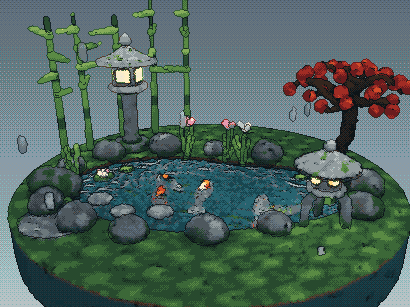
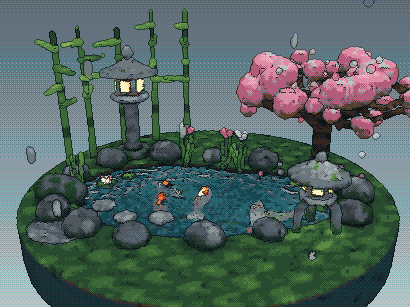
Koi pond: a cherry tree in full bloom, and lanterns whose light stays inside the stone
The lanterns' lights sat inside solid stone and shone through it, warming the
caps and rims. Their light boxes are now hollow with lit paper screens in the
openings, and the lights cast baked shadows, so light gets out only through
the openings. The maple is a cherry in bloom with falling petals, and the
scene's daylight is overcast.

Claude-Session: https://claude.ai/code/session_018HstUmFwNHho8RRYJaL73N

diff --git a/src/blobscape/diorama/scenes/koi.ts b/src/blobscape/diorama/scenes/koi.ts
@@ -2,7 +2,7 @@ import type { SceneDoc } from '../../../splat-engine/sceneDoc.ts'
 
 /**
  * A koi pond in a moss garden on a rainy day, with a tall stone lantern and a low snow-viewing lantern lit beside it, a
- * red maple, bamboo, irises, lily pads and stepping stones. The pond is real water (`water`): every raindrop that
+ * cherry tree in full bloom, bamboo, irises, lily pads and stepping stones. The pond is real water (`water`): every raindrop that
  * lands on it leaves its ring, the rings cross and bounce off the banks and the stones, and each koi leaves a wake
  * where its back breaks the surface.
  * Data only (it would read the same as a .json file): see docs/scene-descriptions.md.
@@ -10,17 +10,17 @@ import type { SceneDoc } from '../../../splat-engine/sceneDoc.ts'
 export const KOI: SceneDoc = {
   name: 'Koi pond in the rain',
   loop: 12,
-  light: { from: [0.25, 1, 0.4], ambient: 0.72, shadow: 0.35 },
+  light: { from: [0.25, 1, 0.4], ambient: 0.72, shadow: 0.35, ramp: 0.2 },
   palette: [
     '#0d1418', '#16242a', '#24363c', '#1a3022', '#284a2e', '#3c6838', '#5a8a44', '#86ac5a',
     '#343c42', '#4e585e', '#6c787c', '#929c9e', '#bcc4c2', '#103038', '#184650', '#286470',
-    '#4a8a94', '#84b8ba', '#34261e', '#58402e', '#6a1c1e', '#a22c24', '#d24c2a', '#ec8038',
-    '#f6a23c', '#ffd27a', '#fff0c4', '#f0e8d6', '#e89aae', '#5a6c7e', '#8a9ca8', '#b6c2c6',
+    '#4a8a94', '#84b8ba', '#34261e', '#58402e', '#d24c2a', '#ec8038', '#b05c7a', '#e08ca6',
+    '#f6c2d0', '#f6a23c', '#ffd27a', '#fff0c4', '#f0e8d6', '#5a6c7e', '#8a9ca8', '#b6c2c6',
   ],
   sky: ['#5a6c7e', '#b6c2c6'],
   look: { dither: 0.5, glow: 1.2, outline: true, edges: true },
-  camera: { target: [0, 0.3, 0.15], distance: 3.45, azimuth: 14, elevation: 21, swing: 8 },
-  air: { haze: { color: '#8a9ca8', from: 1.5, to: 10 }, specks: [{ kind: 'rain', count: 18, size: 0.004, from: [-1.45, -0.3, -1.15], to: [1.45, 2.6, 1.3], colors: ['#b6c2c6', '#8a9ca8'], land: true, wind: [0.1, 0.04] }] },
+  camera: { target: [0, 0.36, 0.1], distance: 3.65, azimuth: 14, elevation: 21, swing: 8 },
+  air: { haze: { color: '#8a9ca8', from: 1.5, to: 10 }, specks: [{ kind: 'rain', count: 18, size: 0.004, from: [-1.45, -0.3, -1.15], to: [1.45, 2.6, 1.3], colors: ['#b6c2c6', '#8a9ca8'], land: true, wind: [0.1, 0.04] }, { kind: 'leaves', count: 14, size: 0.012, from: [0.2, 0, -1.3], to: [1.5, 1.2, 0.2], colors: ['#f6c2d0', '#e08ca6', '#f0e8d6'], land: true, wind: [-0.25, 0.1] }] },
   water: {
     level: -0.045, from: [-1.3, -0.72], to: [1.3, 1.1], color: '#184650', sky: ['#8a9ca8', '#b6c2c6'], clear: 0.25, speed: 0.3, damping: 0.6, cell: 0.018, ripple: 6, deep: 0.05, splash: { r: 0.07, depth: 0.02 },
     bodies: [
@@ -37,8 +37,8 @@ export const KOI: SceneDoc = {
     ],
   },
   bones: [
-    { name: 'maple', at: [1.12, 0, -0.72] },
-    { name: 'crown', at: [0.95, 0.9, -0.55], parent: 'maple' },
+    { name: 'cherry', at: [0.98, 0, -0.8] },
+    { name: 'crown', at: [0.9, 0.85, -0.6], parent: 'cherry' },
     { name: 'bamboo0', at: [-1.36, 0, -0.42] },
     { name: 'bamboo1', at: [-1.2, 0, -0.86] },
     { name: 'bamboo2', at: [-0.9, 0, -1.1] },
@@ -90,25 +90,41 @@ export const KOI: SceneDoc = {
     { shape: { kind: 'sweep', path: [[0.912, 0.27, 0.532], [0.835, 0.2, 0.596], [0.812, -0.12, 0.616]], r: 0.03, rTo: 0.026 }, paint: { kind: 'speckle', size: 0.035, colors: ['#6c787c', '#6c787c', '#4e585e'] }, grime: '#284a2e', noShadow: true },
     { shape: { kind: 'sweep', path: [[0.941, 0.27, 0.451], [0.924, 0.2, 0.352], [0.919, -0.12, 0.323]], r: 0.03, rTo: 0.026 }, paint: { kind: 'speckle', size: 0.035, colors: ['#6c787c', '#6c787c', '#4e585e'] }, grime: '#284a2e', noShadow: true },
     { shape: { kind: 'cylinder', at: [0.95, 0.25, 0.5], height: 0.035, r: 0.13 }, paint: { kind: 'speckle', size: 0.035, colors: ['#929c9e', '#929c9e', '#6c787c'] } },
-    { shape: { kind: 'cylinder', at: [0.95, 0.285, 0.5], height: 0.13, r: 0.085 }, paint: { kind: 'speckle', size: 0.035, colors: ['#6c787c', '#6c787c', '#4e585e'] } },
-    { shape: { kind: 'ball', at: [0.994, 0.35, 0.563], r: [0.034, 0.042, 0.034] }, paint: '#ffd27a', glow: true, noShadow: true },
-    { shape: { kind: 'ball', at: [0.887, 0.35, 0.544], r: [0.034, 0.042, 0.034] }, paint: '#ffd27a', glow: true, noShadow: true },
-    { shape: { kind: 'ball', at: [0.906, 0.35, 0.437], r: [0.034, 0.042, 0.034] }, paint: '#ffd27a', glow: true, noShadow: true },
-    { shape: { kind: 'ball', at: [1.013, 0.35, 0.456], r: [0.034, 0.042, 0.034] }, paint: '#ffd27a', glow: true, noShadow: true },
+    { shape: { kind: 'cut', shape: { kind: 'cylinder', at: [0.95, 0.285, 0.5], height: 0.13, r: 0.09 }, hole: { kind: 'join', shapes: [{ kind: 'cylinder', at: [0.95, 0.305, 0.5], height: 0.08, r: 0.058 }, { kind: 'box', at: [0.95, 0.35, 0.5], half: [0.2, 0.036, 0.03] }, { kind: 'box', at: [0.95, 0.35, 0.5], half: [0.03, 0.036, 0.2] }] } }, paint: { kind: 'speckle', size: 0.035, colors: ['#6c787c', '#6c787c', '#4e585e'] } },
+    { shape: { kind: 'box', at: [1.033, 0.35, 0.5], half: [0.012, 0.036, 0.03] }, paint: '#ffd27a', glow: true, noShadow: true },
+    { shape: { kind: 'box', at: [0.95, 0.35, 0.583], half: [0.03, 0.036, 0.012] }, paint: '#ffd27a', glow: true, noShadow: true },
+    { shape: { kind: 'box', at: [0.867, 0.35, 0.5], half: [0.012, 0.036, 0.03] }, paint: '#ffd27a', glow: true, noShadow: true },
+    { shape: { kind: 'box', at: [0.95, 0.35, 0.417], half: [0.03, 0.036, 0.012] }, paint: '#ffd27a', glow: true, noShadow: true },
     { shape: { kind: 'lathe', at: [0.95, 0.415, 0.5], profile: [[0.21, 0], [0.22, 0.018], [0.16, 0.05], [0.09, 0.09], [0.04, 0.12], [0.012, 0.128]] }, paint: { kind: 'faces', top: { kind: 'patches', size: 0.08, colors: ['#929c9e', '#6c787c', '#929c9e', '#3c6838'] }, side: '#6c787c', under: '#343c42' } },
     { shape: { kind: 'sphere', at: [0.95, 0.57, 0.5], r: 0.035 }, paint: '#929c9e', noShadow: true },
     { shape: { kind: 'cylinder', at: [-0.98, 0, -0.6], height: 0.078, r: 0.195, rTop: 0.169 }, paint: { kind: 'speckle', size: 0.035, colors: ['#6c787c', '#6c787c', '#4e585e'] }, grime: '#284a2e' },
     { shape: { kind: 'lathe', at: [-0.98, 0.078, -0.6], profile: [[0.091, 0], [0.065, 0.065], [0.059, 0.26], [0.065, 0.468], [0.098, 0.52]] }, paint: { kind: 'speckle', size: 0.035, colors: ['#6c787c', '#6c787c', '#4e585e'] }, grime: '#284a2e' },
     { shape: { kind: 'lathe', at: [-0.98, 0.598, -0.6], profile: [[0.091, 0], [0.182, 0.039], [0.182, 0.078]] }, paint: { kind: 'speckle', size: 0.035, colors: ['#929c9e', '#929c9e', '#6c787c'] } },
-    { shape: { kind: 'box', at: [-0.98, 0.767, -0.6], half: [0.104, 0.091, 0.104], round: 0.012 }, paint: { kind: 'speckle', size: 0.035, colors: ['#6c787c', '#6c787c', '#4e585e'] } },
-    { shape: { kind: 'box', at: [-0.873, 0.767, -0.6], half: [0.012, 0.057, 0.062] }, paint: '#ffd27a', glow: true, noShadow: true },
-    { shape: { kind: 'box', at: [-1.087, 0.767, -0.6], half: [0.012, 0.057, 0.062] }, paint: '#ffd27a', glow: true, noShadow: true },
-    { shape: { kind: 'box', at: [-0.98, 0.767, -0.493], half: [0.062, 0.057, 0.012] }, paint: '#ffd27a', glow: true, noShadow: true },
-    { shape: { kind: 'box', at: [-0.98, 0.767, -0.707], half: [0.062, 0.057, 0.012] }, paint: '#ffd27a', glow: true, noShadow: true },
+    { shape: { kind: 'cut', shape: { kind: 'box', at: [-0.98, 0.767, -0.6], half: [0.111, 0.091, 0.111], round: 0.012 }, hole: { kind: 'join', shapes: [{ kind: 'box', at: [-0.98, 0.767, -0.6], half: [0.075, 0.065, 0.075] }, { kind: 'box', at: [-0.98, 0.767, -0.6], half: [0.3, 0.052, 0.052] }, { kind: 'box', at: [-0.98, 0.767, -0.6], half: [0.052, 0.052, 0.3] }] } }, paint: { kind: 'speckle', size: 0.035, colors: ['#6c787c', '#6c787c', '#4e585e'] } },
+    { shape: { kind: 'box', at: [-0.867, 0.767, -0.6], half: [0.012, 0.052, 0.052] }, paint: '#ffd27a', glow: true, noShadow: true },
+    { shape: { kind: 'box', at: [-1.093, 0.767, -0.6], half: [0.012, 0.052, 0.052] }, paint: '#ffd27a', glow: true, noShadow: true },
+    { shape: { kind: 'box', at: [-0.98, 0.767, -0.487], half: [0.052, 0.052, 0.012] }, paint: '#ffd27a', glow: true, noShadow: true },
+    { shape: { kind: 'box', at: [-0.98, 0.767, -0.713], half: [0.052, 0.052, 0.012] }, paint: '#ffd27a', glow: true, noShadow: true },
     { shape: { kind: 'lathe', at: [-0.98, 0.858, -0.6], profile: [[0.273, 0.026], [0.286, 0.046], [0.195, 0.078], [0.104, 0.13], [0.039, 0.176], [0.016, 0.182]] }, paint: { kind: 'faces', top: { kind: 'patches', size: 0.08, colors: ['#929c9e', '#6c787c', '#929c9e', '#3c6838'] }, side: '#6c787c', under: '#343c42' } },
     { shape: { kind: 'lathe', at: [-0.98, 1.04, -0.6], profile: [[0.016, 0], [0.052, 0.039], [0.039, 0.078], [0.016, 0.111]] }, paint: '#929c9e', noShadow: true },
-    { shape: { kind: 'tree', at: [1.12, 0, -0.72], height: 0.5, crown: [0.6, 0.26, 0.5], r: 0.055, points: 150, leaves: 0.052, only: 'limbs', seed: 5 }, paint: '#34261e', bone: 'maple' },
-    { shape: { kind: 'tree', at: [1.12, 0, -0.72], height: 0.5, crown: [0.6, 0.26, 0.5], r: 0.055, points: 150, leaves: 0.052, only: 'leaves', seed: 5 }, paint: { kind: 'speckle', size: 0.04, colors: ['#a22c24', '#d24c2a', '#6a1c1e', '#ec8038'] }, bone: 'crown', noShadow: true },
+    { shape: { kind: 'tree', at: [0.98, 0, -0.8], height: 0.44, crown: [0.92, 0.34, 0.7], r: 0.074, points: 400, leaves: 0.07, seed: 11, only: 'limbs' }, paint: { kind: 'bands', axis: 'y', size: 0.045, colors: ['#34261e', '#34261e', '#58402e'] }, bone: 'cherry' },
+    { shape: { kind: 'tree', at: [0.98, 0, -0.8], height: 0.44, crown: [0.92, 0.34, 0.7], r: 0.074, points: 400, leaves: 0.07, seed: 11, only: 'leaves' }, paint: { kind: 'faces', top: { kind: 'speckle', size: 0.035, colors: ['#f6c2d0', '#f6c2d0', '#f0e8d6', '#e08ca6'] }, side: { kind: 'speckle', size: 0.035, colors: ['#e08ca6', '#f6c2d0', '#e08ca6', '#b05c7a'] }, under: '#b05c7a' }, bone: 'crown', noShadow: true },
+    { shape: { kind: 'join', blend: 'smooth', by: 0.03, shapes: [{ kind: 'sphere', at: [1.042, 0.886, -0.221], r: 0.132 }, { kind: 'sphere', at: [0.576, 0.987, -0.523], r: 0.108 }, { kind: 'sphere', at: [1.369, 0.952, -0.736], r: 0.133 }, { kind: 'sphere', at: [0.382, 0.947, -0.929], r: 0.14 }, { kind: 'sphere', at: [1.239, 0.824, -0.457], r: 0.103 }, { kind: 'sphere', at: [0.498, 0.783, -1.059], r: 0.113 }, { kind: 'sphere', at: [0.512, 0.899, -0.393], r: 0.14 }, { kind: 'sphere', at: [1.202, 1.026, -0.954], r: 0.114 }, { kind: 'sphere', at: [0.948, 0.772, -0.435], r: 0.109 }, { kind: 'sphere', at: [1.259, 0.915, -0.355], r: 0.085 }, { kind: 'sphere', at: [0.586, 0.952, -0.641], r: 0.114 }, { kind: 'sphere', at: [1.397, 0.761, -1.05], r: 0.124 }, { kind: 'sphere', at: [1.241, 0.896, -0.319], r: 0.129 }, { kind: 'sphere', at: [1.444, 0.965, -0.681], r: 0.136 }, { kind: 'sphere', at: [0.646, 0.766, -0.203], r: 0.11 }, { kind: 'sphere', at: [1.329, 0.878, -0.598], r: 0.14 }, { kind: 'sphere', at: [0.404, 0.79, -0.637], r: 0.114 }, { kind: 'sphere', at: [0.23, 0.756, -0.963], r: 0.11 }, { kind: 'sphere', at: [0.612, 0.805, -0.524], r: 0.122 }, { kind: 'sphere', at: [0.609, 0.985, -0.39], r: 0.109 }, { kind: 'sphere', at: [1.335, 0.946, -0.373], r: 0.104 }, { kind: 'sphere', at: [1.162, 0.853, -0.366], r: 0.134 }, { kind: 'sphere', at: [1.363, 0.911, -0.818], r: 0.087 }, { kind: 'sphere', at: [0.442, 0.717, -1.019], r: 0.14 }, { kind: 'sphere', at: [1.276, 1.006, -0.922], r: 0.112 }, { kind: 'sphere', at: [0.33, 0.811, -1.13], r: 0.134 }, { kind: 'sphere', at: [0.32, 0.81, -0.407], r: 0.127 }, { kind: 'sphere', at: [0.751, 0.883, -1.25], r: 0.086 }, { kind: 'sphere', at: [0.522, 0.904, -0.971], r: 0.132 }, { kind: 'sphere', at: [1.289, 0.97, -0.528], r: 0.087 }, { kind: 'sphere', at: [0.396, 0.933, -0.785], r: 0.138 }, { kind: 'sphere', at: [0.732, 0.754, -0.422], r: 0.09 }, { kind: 'sphere', at: [1.803, 0.73, -0.66], r: 0.139 }, { kind: 'sphere', at: [1.218, 1.022, -0.94], r: 0.138 }, { kind: 'sphere', at: [0.7, 0.991, -1.249], r: 0.086 }, { kind: 'sphere', at: [0.722, 0.812, -1.175], r: 0.108 }, { kind: 'sphere', at: [1.419, 0.906, -0.501], r: 0.096 }, { kind: 'sphere', at: [0.439, 0.84, -0.513], r: 0.128 }, { kind: 'sphere', at: [0.461, 0.798, -1.226], r: 0.137 }, { kind: 'sphere', at: [0.856, 1.007, -0.565], r: 0.091 }] }, paint: { kind: 'faces', top: { kind: 'speckle', size: 0.03, colors: ['#f6c2d0', '#f6c2d0', '#f0e8d6', '#e08ca6', '#f6c2d0'] }, side: { kind: 'speckle', size: 0.03, colors: ['#e08ca6', '#f6c2d0', '#e08ca6', '#b05c7a'] }, under: { kind: 'speckle', size: 0.03, colors: ['#b05c7a', '#e08ca6', '#b05c7a'] } }, bone: 'crown', noShadow: true, touches: true },
+    { shape: { kind: 'cylinder', at: [0.897, 0, -0.292], height: 0.012, r: 0.018 }, paint: '#e08ca6', noShadow: true, bare: true },
+    { shape: { kind: 'cylinder', at: [0.624, 0, -0.452], height: 0.012, r: 0.018 }, paint: '#f6c2d0', noShadow: true, bare: true },
+    { shape: { kind: 'cylinder', at: [1.386, 0, -0.539], height: 0.012, r: 0.017 }, paint: '#e08ca6', noShadow: true, bare: true },
+    { shape: { kind: 'cylinder', at: [1.055, 0, -0.429], height: 0.012, r: 0.022 }, paint: '#f6c2d0', noShadow: true, bare: true },
+    { shape: { kind: 'cylinder', at: [1.184, 0, -0.332], height: 0.012, r: 0.021 }, paint: '#f6c2d0', noShadow: true, bare: true },
+    { shape: { kind: 'cylinder', at: [0.435, 0, -0.39], height: 0.012, r: 0.017 }, paint: '#e08ca6', noShadow: true, bare: true },
+    { shape: { kind: 'cylinder', at: [1.156, 0, -0.71], height: 0.012, r: 0.024 }, paint: '#f6c2d0', noShadow: true, bare: true },
+    { shape: { kind: 'cylinder', at: [0.529, 0, -0.886], height: 0.012, r: 0.021 }, paint: '#f6c2d0', noShadow: true, bare: true },
+    { shape: { kind: 'cylinder', at: [1.201, 0, -0.715], height: 0.012, r: 0.021 }, paint: '#e08ca6', noShadow: true, bare: true },
+    { shape: { kind: 'cylinder', at: [0.909, 0, -0.475], height: 0.012, r: 0.024 }, paint: '#f6c2d0', noShadow: true, bare: true },
+    { shape: { kind: 'cylinder', at: [0.985, 0, -0.44], height: 0.012, r: 0.026 }, paint: '#f6c2d0', noShadow: true, bare: true },
+    { shape: { kind: 'cylinder', at: [0.899, 0, -0.228], height: 0.012, r: 0.019 }, paint: '#e08ca6', noShadow: true, bare: true },
+    { shape: { kind: 'cylinder', at: [0.596, 0, -0.638], height: 0.012, r: 0.025 }, paint: '#f6c2d0', noShadow: true, bare: true },
+    { shape: { kind: 'cylinder', at: [0.55, 0, -0.733], height: 0.012, r: 0.022 }, paint: '#f6c2d0', noShadow: true, bare: true },
+    { shape: { kind: 'cylinder', at: [1.02, 0, -0.584], height: 0.012, r: 0.017 }, paint: '#e08ca6', noShadow: true, bare: true },
     { shape: { kind: 'cylinder', at: [-1.36, 0, -0.42], height: 1.356, r: 0.026, rTop: 0.016 }, paint: { kind: 'bands', axis: 'y', size: 0.11, colors: ['#5a8a44', '#5a8a44', '#5a8a44', '#284a2e'] }, bone: 'bamboo0', noShadow: true },
     { shape: { kind: 'cone', from: [-1.36, 0.678, -0.42], to: [-1.416, 0.722, -0.644], r: 0.03, rTo: 0.008 }, paint: '#5a8a44', bone: 'bamboo0', noShadow: true },
     { shape: { kind: 'cone', from: [-1.36, 0.854, -0.42], to: [-1.176, 0.876, -0.607], r: 0.03, rTo: 0.008 }, paint: '#86ac5a', bone: 'bamboo0', noShadow: true },
@@ -140,9 +156,9 @@ export const KOI: SceneDoc = {
     { shape: { kind: 'cone', from: [0.05, -0.02, -0.5], to: [0.096, 0.337, -0.541], r: 0.014, rTo: 0.006 }, paint: '#5a8a44', bone: 'iris0', noShadow: true },
     { shape: { kind: 'cone', from: [0.05, -0.02, -0.5], to: [0.056, 0.317, -0.404], r: 0.014, rTo: 0.006 }, paint: '#86ac5a', bone: 'iris0', noShadow: true },
     { shape: { kind: 'cone', from: [0.05, 0, -0.5], to: [0.06, 0.33, -0.5], r: 0.008 }, paint: '#3c6838', bone: 'iris0', noShadow: true },
-    { shape: { kind: 'cone', from: [0.06, 0.33, -0.5], to: [0.105, 0.36, -0.5], r: 0.014, rTo: 0.02 }, paint: '#e89aae', bone: 'iris0', noShadow: true },
-    { shape: { kind: 'cone', from: [0.06, 0.33, -0.5], to: [0.038, 0.38, -0.461], r: 0.014, rTo: 0.02 }, paint: '#e89aae', bone: 'iris0', noShadow: true },
-    { shape: { kind: 'cone', from: [0.06, 0.33, -0.5], to: [0.037, 0.36, -0.539], r: 0.014, rTo: 0.02 }, paint: '#e89aae', bone: 'iris0', noShadow: true },
+    { shape: { kind: 'cone', from: [0.06, 0.33, -0.5], to: [0.105, 0.36, -0.5], r: 0.014, rTo: 0.02 }, paint: '#e08ca6', bone: 'iris0', noShadow: true },
+    { shape: { kind: 'cone', from: [0.06, 0.33, -0.5], to: [0.038, 0.38, -0.461], r: 0.014, rTo: 0.02 }, paint: '#e08ca6', bone: 'iris0', noShadow: true },
+    { shape: { kind: 'cone', from: [0.06, 0.33, -0.5], to: [0.037, 0.36, -0.539], r: 0.014, rTo: 0.02 }, paint: '#e08ca6', bone: 'iris0', noShadow: true },
     { shape: { kind: 'cone', from: [0.22, -0.02, -0.47], to: [0.157, 0.226, -0.496], r: 0.014, rTo: 0.006 }, paint: '#86ac5a', bone: 'iris1', noShadow: true },
     { shape: { kind: 'cone', from: [0.22, -0.02, -0.47], to: [0.27, 0.219, -0.462], r: 0.014, rTo: 0.006 }, paint: '#5a8a44', bone: 'iris1', noShadow: true },
     { shape: { kind: 'cone', from: [0.22, -0.02, -0.47], to: [0.225, 0.251, -0.524], r: 0.014, rTo: 0.006 }, paint: '#86ac5a', bone: 'iris1', noShadow: true },
@@ -158,9 +174,9 @@ export const KOI: SceneDoc = {
     { shape: { kind: 'cone', from: [-0.35, -0.02, -0.5], to: [-0.304, 0.282, -0.529], r: 0.014, rTo: 0.006 }, paint: '#5a8a44', bone: 'iris2', noShadow: true },
     { shape: { kind: 'cone', from: [-0.35, -0.02, -0.5], to: [-0.297, 0.252, -0.425], r: 0.014, rTo: 0.006 }, paint: '#86ac5a', bone: 'iris2', noShadow: true },
     { shape: { kind: 'cone', from: [-0.35, 0, -0.5], to: [-0.34, 0.33, -0.5], r: 0.008 }, paint: '#3c6838', bone: 'iris2', noShadow: true },
-    { shape: { kind: 'cone', from: [-0.34, 0.33, -0.5], to: [-0.359, 0.36, -0.459], r: 0.014, rTo: 0.02 }, paint: '#e89aae', bone: 'iris2', noShadow: true },
-    { shape: { kind: 'cone', from: [-0.34, 0.33, -0.5], to: [-0.366, 0.38, -0.537], r: 0.014, rTo: 0.02 }, paint: '#e89aae', bone: 'iris2', noShadow: true },
-    { shape: { kind: 'cone', from: [-0.34, 0.33, -0.5], to: [-0.295, 0.36, -0.504], r: 0.014, rTo: 0.02 }, paint: '#e89aae', bone: 'iris2', noShadow: true },
+    { shape: { kind: 'cone', from: [-0.34, 0.33, -0.5], to: [-0.359, 0.36, -0.459], r: 0.014, rTo: 0.02 }, paint: '#e08ca6', bone: 'iris2', noShadow: true },
+    { shape: { kind: 'cone', from: [-0.34, 0.33, -0.5], to: [-0.366, 0.38, -0.537], r: 0.014, rTo: 0.02 }, paint: '#e08ca6', bone: 'iris2', noShadow: true },
+    { shape: { kind: 'cone', from: [-0.34, 0.33, -0.5], to: [-0.295, 0.36, -0.504], r: 0.014, rTo: 0.02 }, paint: '#e08ca6', bone: 'iris2', noShadow: true },
     { shape: { kind: 'cone', from: [1.05, -0.02, 0.02], to: [0.988, 0.248, 0.035], r: 0.014, rTo: 0.006 }, paint: '#86ac5a', bone: 'iris3', noShadow: true },
     { shape: { kind: 'cone', from: [1.05, -0.02, 0.02], to: [1.023, 0.202, -0.039], r: 0.014, rTo: 0.006 }, paint: '#5a8a44', bone: 'iris3', noShadow: true },
     { shape: { kind: 'cone', from: [1.05, -0.02, 0.02], to: [1.068, 0.284, -0.056], r: 0.014, rTo: 0.006 }, paint: '#86ac5a', bone: 'iris3', noShadow: true },
@@ -173,20 +189,20 @@ export const KOI: SceneDoc = {
     { shape: { kind: 'cone', from: [-1.12, -0.02, 0.3], to: [-1.119, 0.332, 0.357], r: 0.014, rTo: 0.006 }, paint: '#86ac5a', bone: 'iris4', noShadow: true },
     { shape: { kind: 'cut', shape: { kind: 'cylinder', at: [0.95, -0.041, -0.2], height: 0.012, r: 0.1 }, hole: { kind: 'cone', from: [0.95, -0.045, -0.2], to: [1.07, -0.045, -0.16], r: 0.004, rTo: 0.04 } }, paint: { kind: 'faces', top: '#86ac5a', side: '#284a2e' }, bone: 'pad0', noShadow: true, bare: true },
     { shape: { kind: 'cone', from: [0.95, -0.025, -0.2], to: [0.99, 0.025, -0.2], r: 0.018, rTo: 0.006 }, paint: '#f0e8d6', bone: 'pad0', glow: true, noShadow: true },
-    { shape: { kind: 'cone', from: [0.95, -0.025, -0.2], to: [0.97, 0.025, -0.165], r: 0.018, rTo: 0.006 }, paint: '#e89aae', bone: 'pad0', glow: true, noShadow: true },
+    { shape: { kind: 'cone', from: [0.95, -0.025, -0.2], to: [0.97, 0.025, -0.165], r: 0.018, rTo: 0.006 }, paint: '#e08ca6', bone: 'pad0', glow: true, noShadow: true },
     { shape: { kind: 'cone', from: [0.95, -0.025, -0.2], to: [0.93, 0.025, -0.165], r: 0.018, rTo: 0.006 }, paint: '#f0e8d6', bone: 'pad0', glow: true, noShadow: true },
-    { shape: { kind: 'cone', from: [0.95, -0.025, -0.2], to: [0.91, 0.025, -0.2], r: 0.018, rTo: 0.006 }, paint: '#e89aae', bone: 'pad0', glow: true, noShadow: true },
+    { shape: { kind: 'cone', from: [0.95, -0.025, -0.2], to: [0.91, 0.025, -0.2], r: 0.018, rTo: 0.006 }, paint: '#e08ca6', bone: 'pad0', glow: true, noShadow: true },
     { shape: { kind: 'cone', from: [0.95, -0.025, -0.2], to: [0.93, 0.025, -0.235], r: 0.018, rTo: 0.006 }, paint: '#f0e8d6', bone: 'pad0', glow: true, noShadow: true },
-    { shape: { kind: 'cone', from: [0.95, -0.025, -0.2], to: [0.97, 0.025, -0.235], r: 0.018, rTo: 0.006 }, paint: '#e89aae', bone: 'pad0', glow: true, noShadow: true },
+    { shape: { kind: 'cone', from: [0.95, -0.025, -0.2], to: [0.97, 0.025, -0.235], r: 0.018, rTo: 0.006 }, paint: '#e08ca6', bone: 'pad0', glow: true, noShadow: true },
     { shape: { kind: 'cut', shape: { kind: 'cylinder', at: [1, -0.041, 0.1], height: 0.012, r: 0.075 }, hole: { kind: 'cone', from: [1, -0.045, 0.1], to: [1.09, -0.045, 0.13], r: 0.004, rTo: 0.03 } }, paint: { kind: 'faces', top: '#5a8a44', side: '#284a2e' }, bone: 'pad1', noShadow: true, bare: true },
     { shape: { kind: 'cut', shape: { kind: 'cylinder', at: [0.78, -0.041, -0.3], height: 0.012, r: 0.06 }, hole: { kind: 'cone', from: [0.78, -0.045, -0.3], to: [0.852, -0.045, -0.276], r: 0.004, rTo: 0.024 } }, paint: { kind: 'faces', top: '#86ac5a', side: '#284a2e' }, bone: 'pad2', noShadow: true, bare: true },
     { shape: { kind: 'cut', shape: { kind: 'cylinder', at: [-0.95, -0.041, 0.12], height: 0.012, r: 0.09 }, hole: { kind: 'cone', from: [-0.95, -0.045, 0.12], to: [-0.842, -0.045, 0.156], r: 0.004, rTo: 0.036 } }, paint: { kind: 'faces', top: '#5a8a44', side: '#284a2e' }, bone: 'pad3', noShadow: true, bare: true },
     { shape: { kind: 'cone', from: [-0.95, -0.025, 0.12], to: [-0.91, 0.025, 0.12], r: 0.018, rTo: 0.006 }, paint: '#f0e8d6', bone: 'pad3', glow: true, noShadow: true },
-    { shape: { kind: 'cone', from: [-0.95, -0.025, 0.12], to: [-0.93, 0.025, 0.155], r: 0.018, rTo: 0.006 }, paint: '#e89aae', bone: 'pad3', glow: true, noShadow: true },
+    { shape: { kind: 'cone', from: [-0.95, -0.025, 0.12], to: [-0.93, 0.025, 0.155], r: 0.018, rTo: 0.006 }, paint: '#e08ca6', bone: 'pad3', glow: true, noShadow: true },
     { shape: { kind: 'cone', from: [-0.95, -0.025, 0.12], to: [-0.97, 0.025, 0.155], r: 0.018, rTo: 0.006 }, paint: '#f0e8d6', bone: 'pad3', glow: true, noShadow: true },
-    { shape: { kind: 'cone', from: [-0.95, -0.025, 0.12], to: [-0.99, 0.025, 0.12], r: 0.018, rTo: 0.006 }, paint: '#e89aae', bone: 'pad3', glow: true, noShadow: true },
+    { shape: { kind: 'cone', from: [-0.95, -0.025, 0.12], to: [-0.99, 0.025, 0.12], r: 0.018, rTo: 0.006 }, paint: '#e08ca6', bone: 'pad3', glow: true, noShadow: true },
     { shape: { kind: 'cone', from: [-0.95, -0.025, 0.12], to: [-0.97, 0.025, 0.085], r: 0.018, rTo: 0.006 }, paint: '#f0e8d6', bone: 'pad3', glow: true, noShadow: true },
-    { shape: { kind: 'cone', from: [-0.95, -0.025, 0.12], to: [-0.93, 0.025, 0.085], r: 0.018, rTo: 0.006 }, paint: '#e89aae', bone: 'pad3', glow: true, noShadow: true },
+    { shape: { kind: 'cone', from: [-0.95, -0.025, 0.12], to: [-0.93, 0.025, 0.085], r: 0.018, rTo: 0.006 }, paint: '#e08ca6', bone: 'pad3', glow: true, noShadow: true },
     { shape: { kind: 'cut', shape: { kind: 'cylinder', at: [-0.82, -0.041, -0.1], height: 0.012, r: 0.07 }, hole: { kind: 'cone', from: [-0.82, -0.045, -0.1], to: [-0.736, -0.045, -0.072], r: 0.004, rTo: 0.028 } }, paint: { kind: 'faces', top: '#86ac5a', side: '#284a2e' }, bone: 'pad4', noShadow: true, bare: true },
     { shape: { kind: 'cut', shape: { kind: 'cylinder', at: [0.1, -0.041, 0.78], height: 0.012, r: 0.065 }, hole: { kind: 'cone', from: [0.1, -0.045, 0.78], to: [0.178, -0.045, 0.806], r: 0.004, rTo: 0.026 } }, paint: { kind: 'faces', top: '#5a8a44', side: '#284a2e' }, bone: 'pad5', noShadow: true, bare: true },
     { shape: { kind: 'ball', at: [-0.03, -0.09, 0.05], r: [0.06, 0.054, 0.165] }, paint: { kind: 'patches', size: 0.105, colors: ['#ec8038', '#f0e8d6', '#d24c2a'] }, bone: 'koi0', glow: true, noShadow: true, bare: true },
@@ -206,8 +222,8 @@ export const KOI: SceneDoc = {
     { shape: { kind: 'ball', at: [-0.3, -0.081, 0.426], r: [0.054, 0.012, 0.042] }, paint: '#0d1418', bone: 'tail4', glow: true, noShadow: true, bare: true },
   ],
   moves: [
-    { kind: 'sway', bone: 'maple', axis: 'z', degrees: 1.2, times: 2 },
-    { kind: 'sway', bone: 'crown', axis: 'x', degrees: 2, times: 3, phase: 0.2 },
+    { kind: 'sway', bone: 'cherry', axis: 'z', degrees: 1, times: 2 },
+    { kind: 'sway', bone: 'crown', axis: 'x', degrees: 1.6, times: 3, phase: 0.2 },
     { kind: 'sway', bone: 'bamboo0', axis: 'z', degrees: 1.993, times: 2, phase: 0.175 },
     { kind: 'sway', bone: 'bamboo1', axis: 'x', degrees: 2.004, times: 3, phase: 0.482 },
     { kind: 'sway', bone: 'bamboo2', axis: 'z', degrees: 1.711, times: 2, phase: 0.509 },
@@ -241,7 +257,7 @@ export const KOI: SceneDoc = {
     { kind: 'sway', bone: 'tail4', axis: 'y', degrees: 22, times: 18, phase: 0.569 },
   ],
   lights: [
-    { at: [0.95, 0.35, 0.5], color: '#ffd27a', strength: 1.6, range: 0.8, flicker: { by: 0.14, times: 7 } },
-    { at: [-0.98, 0.78, -0.6], color: '#ffd27a', strength: 1.8, range: 1, flicker: { by: 0.12, times: 5 } },
+    { at: [0.95, 0.36, 0.5], color: '#ffd27a', strength: 1.6, range: 0.8, flicker: { by: 0.14, times: 7 }, shadows: true },
+    { at: [-0.98, 0.787, -0.6], color: '#ffd27a', strength: 1.8, range: 1, flicker: { by: 0.12, times: 5 }, shadows: true },
   ],
 }

diff --git a/src/blobscape/diorama/scenes.ts b/src/blobscape/diorama/scenes.ts
@@ -157,5 +157,5 @@ export const DIORAMAS: Diorama[] = [
   described('cave', CAVE, 'An ice cave cut open at night, with icicles along its broken roof, stalactites joining stalagmites, flowstone, basalt columns stepping into a still pool, a geode broken open and glowing crystals, one growing as you watch'),
   described('canyon', CANYON, 'A desert canyon at sunset worn by water, with banded cliffs and ledges, scree, a mesa, hoodoos, a natural arch, a dry stream bed of pebbles and cracked mud, saguaros, a gnarled tree, a ram skull with curled horns, old ribs, a fossil shell and a circling hawk'),
   described('cabin', CABIN, 'A log cabin snowed in on a winter night: snow falling and settling where it lands, drifts piled deep downwind of the cabin, rocks and fence, a path trodden to the gate, frost growing across the lit window, chimney smoke, a woodpile and a lantern'),
-  described('koi', KOI, 'A koi pond in a moss garden on a rainy day: raindrops ring the water where they land, the rings cross and bounce off the banks and stepping stones, koi circle under the surface and leave wakes, and a tall stone lantern and a low snow-viewing lantern glow beside a red maple, bamboo, irises and lily pads'),
+  described('koi', KOI, 'A koi pond in a moss garden on a rainy day: raindrops ring the water where they land, the rings cross and bounce off the banks and stepping stones, koi circle under the surface and leave wakes, and a tall stone lantern and a low snow-viewing lantern glow under a cherry tree in full bloom that sheds its petals, with bamboo, irises and lily pads'),
 ]

diff --git a/CLAUDE.md b/CLAUDE.md
@@ -185,7 +185,7 @@ multi-page React app, one Vercel project, served from the root. See README for t
 - Formations (issue #177, `splat-engine/forms.ts`, pure and tested): `crystal` (a regular polygon prism coming to a point, `chips` as planes), `crystals` (`clusterCrystals`: one root, the middle one longest and upright), `geode` (rind, bands and lining crystals; `pieceAt` 0 rind, 1/2 bands by turns, -1 crystals, for `pieces` with `ordered`), `columns` (a hex grid with a height per column, `rise` steps/dome/random; only the 7 nearest columns asked), `drips` (`dripPlan`: stalactite and stalagmite per drip, joined when they'd meet), `flowstone` and `icicles` (columns looked at from below; an edge where a neighbor column misses or meets the shape much higher; `above` skips edges on the ground). The `sprout` move (`sprouted`) grows a bone from nothing, holds and shrinks away within each period. The crystal cave (`scenes/cave.ts`) shows them.
 - Living forms (issue #178, `splat-engine/life.ts`, pure and tested): `tree` (`colonize`: space colonization, limbs by the pipe rule, r^2.5 the sum of the children's), `cactus` (`ribbed` tubes, arms bend up), `rosette` (golden angle), `brackets`, `brain`, `shell` (`shellCoil`, a log spiral, 2.4 times per whorl; a piece per stretch), `horn` (`hornPath`: curl in the plane of its first way and the sky, `twist` sideways), `antler`, `ribs`. Tests check that no distance is overstated (nothing within it is on the other side), the property the sun march needs.
 - Worn land (issue #175, `splat-engine/erode.ts`, pure and tested): `land` is a height grid (at most `MAX_GRID` a side, built once per spec by `wornLand`): peaks and noise, `terrace` by `beds` (hard beds rise as cliffs then hold a bench), `drops` droplets that carry and lay down (soft beds give more), then `slump` (hard beds hold steeper). Pieces are the bed, or -1 where enough was laid (the top fifth, `thick`). `butte`/`hoodoo` wear each bed back by softness under a cap, `arch` is a fin with a hole through its soft bed, `mud` is jittered-grid plates with curled edges, `pebbles` grow toward mid-stream. The desert canyon (`scenes/canyon.ts`) shows them with the living forms.
-- Water in a scene (`SceneDoc.water`, `splat-engine/sceneWater.ts`, tested; the koi pond, `scenes/koi.ts`): a description floods a box up to `level` wherever the still ground lies under it (`WaterPlan.wet`, from `groundUnder`; a cell with no ground under it stays dry, so keep the box inside the banks). A scene is posed from the time alone, so the pond can't be stepped with the clock: `SceneWater` runs water.ts's real `Water` through one whole loop once (two warm loops first, so the loop joins), with a `splash` for every drop of landing rain that comes down on it (`WaterPlan.drops`: rain with `land` now falls somewhere new each fall, `Speck.falls`) and `Water.body` for each of `bodies` (a ball riding a bone; its `draft` must stay the same going in and coming out, or the pond gains water), keeps the heights at 24 moments a second as 16-bit steps and `set(t)` blends two of them. `show(t, eye, { mirror })` shapes and colors the surface, which is a second actor: `Stage.setActor(actor, clip, extras)`, `Stage.reshape(actor)` and `Stage.setMirror` (a `SplatMirror` drawn about `MIRROR_PACE` times a second; `frame()` waits for it) are what the page uses, with the mirror only on WebGPU (`?mirror=0`). `WaterLook.deep` is in the scene's units: 0.05 here, since the Wading Pond's 0.3 turned a scene-sized pond to mottle. Every scene's `look.dither` is 0.5 (Matt, 2026-11-18); pixel size starts at 2.
+- Water in a scene (`SceneDoc.water`, `splat-engine/sceneWater.ts`, tested; the koi pond, `scenes/koi.ts`): a description floods a box up to `level` wherever the still ground lies under it (`WaterPlan.wet`, from `groundUnder`; a cell with no ground under it stays dry, so keep the box inside the banks). A scene is posed from the time alone, so the pond can't be stepped with the clock: `SceneWater` runs water.ts's real `Water` through one whole loop once (two warm loops first, so the loop joins), with a `splash` for every drop of landing rain that comes down on it (`WaterPlan.drops`: rain with `land` now falls somewhere new each fall, `Speck.falls`) and `Water.body` for each of `bodies` (a ball riding a bone; its `draft` must stay the same going in and coming out, or the pond gains water), keeps the heights at 24 moments a second as 16-bit steps and `set(t)` blends two of them. `show(t, eye, { mirror })` shapes and colors the surface, which is a second actor: `Stage.setActor(actor, clip, extras)`, `Stage.reshape(actor)` and `Stage.setMirror` (a `SplatMirror` drawn about `MIRROR_PACE` times a second; `frame()` waits for it) are what the page uses, with the mirror only on WebGPU (`?mirror=0`). `WaterLook.deep` is in the scene's units: 0.05 here, since the Wading Pond's 0.3 turned a scene-sized pond to mottle. Every scene's `look.dither` is 0.5 (Matt, 2026-11-18); pixel size starts at 2. A live light shines through anything (`lightAt` takes the facing's size, not its sign), so a lamp set inside solid stone floods the stone round it: Matt saw the koi pond's lantern caps go warm, which a borrowed palette drew as tan. Its light boxes are hollow (`cut`) with `glow`, `noShadow` paper screens in the openings and lights with `shadows: true`, so the baked lamp shadows let light out only through the openings. Its daylight has `ramp` 0.2 (overcast). Its cherry tree is a `tree` for the boughs plus forty joined balls of blossom on the crown bone.
 - Weather that lands (issue #174, `splat-engine/weather.ts`, pure and tested): `groundUnder` steps down by the shapes' own distances to the first surface. Rain, snow and leaf specks with `land` fall to whatever stays put under where they come down (parts on no bone or one that only sways; worked out once in `compileScene`), lie and go (`fallAt`, size 0 at both ends of each life so it loops; snow melts in quickly because a flake lying on snow gets a ring of part lines), blown by `wind` (rain leans along it); leaves flutter and lie flat. `drift` is a layer over the parts before it: `driftField` deepens snow behind anything upwind and wide (`WIDE`; a post doesn't shelter), scours what stands above the ground upwind, takes it off steep faces, thins it on a `path`, then blurs it. `frost` (`frostPlan`) grows strokes in a plane, side branches on alternate sides every other step, `t` its order of growth; `stage` cuts a share so parts can sprout in turn. The snowed-in cabin (`scenes/cabin.ts`) shows them.
 - Ink (issue #112): a part's `ink` marks some 4×4 blocks of grid cells with one mark from `INK_MARKS` (`inkedAt`: blocks in each row shifted at random, each mark picked, turned and flipped per block, so nothing repeats; `UPRIGHT` kinds only flip side to side), in `inkOf` (a much darker step) unless given a color. It changes the paint before light, so shade still falls on it. A grid cell is about one picture pixel at the default size: marks a cell wide are the point.
 - Glass (issue #113): pixel mode cuts anything faint, so water, ice and glass are baked, not drawn see-through: a `glass` part's cells take what the line from `VoxelSpec.eye` (the scene's camera) meets behind them (`see`; a darker step of their own color where it leaves the part with nothing met) and what their mirror line meets (`mirror`, Fresnel-ish), both from `lookAlong` (paint plus sun, no shadows), shared by cells two a side (`glassSeen`). Off the scene's own view it is a painting of glass.

diff --git a/CHANGELOG.md b/CHANGELOG.md
@@ -6,6 +6,7 @@ merging that PR makes the tag and the GitHub release (see docs/releasing.md).
 
 ## [Unreleased]
 
+- Pixel Diorama's koi pond has a cherry tree in full bloom in place of the maple: billows of pale and deep pink blossom over dark boughs, with petals drifting down and lying on the moss. Its stone lanterns no longer turn warm all over: each one's light used to sit inside solid stone and shine through it onto the cap and rim. The light boxes are now hollow with paper screens in their openings, and the light gets out only through those. The scene's daylight is an overcast day's, with no warm sun in it.
 - Pixel Diorama has a new scene, Koi pond in the rain: a pond in a moss garden with two stone lanterns, a red maple, bamboo and irises. The water is a real one. Every raindrop leaves a ring where it lands, the koi push wakes as they circle, and the rings spread, cross, bounce off the stepping stones and the banks and die away; with WebGPU the water also mirrors the lanterns and the maple. Any scene written as data can have it: a description's new `water` floods a basin, takes the scene's own rain and is moved by the bones named in `bodies`. In the engine: `SceneWater` works one loop of a scene's water out, and `Stage` takes extra actors, `reshape` and `setMirror`.
 - Pixel Diorama: every scene now starts with Dither at 50% (they started between 5% and 12%). The recorded loops in the gallery still show the old setting until they are recorded again.
 - Brush and Ink: the marks on a turning thing stay where they are. The stripes on the windmill's sails used to jump as each sail came round, because the marks were laid far to near and every blob on a sail changed places at the same moment. Each pixel now shows the mark nearest to it, so the order they are drawn in no longer matters. The scanned mug keeps its softer, layered marks (`soft` on a mark look in the engine).
